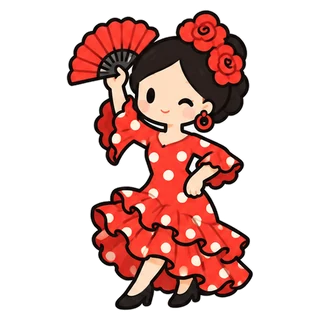
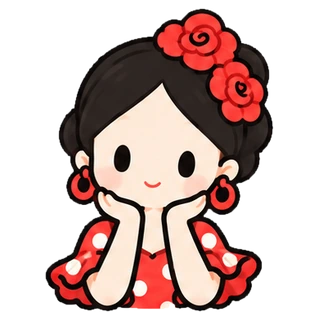
V1.9.13 MARCA: logotipo nuevo, pantalla de apertura, icono nuevo y 8 poses para Menina rubia y Flamenca
Claude-Session: https://claude.ai/code/session_018s9NCTuMNe4yPyob3aS4qC

diff --git a/index.html b/index.html
@@ -108,25 +108,11 @@
   </style>
 </head>
 <body>
+<div id="moppiSplash" role="img" aria-label="Moppi. Pequeños viajes, grandes historias."><span class="splash-blob a"></span><span class="splash-blob b"></span><span class="splash-blob c"></span><span class="splash-blob d"></span><svg class="splash-logo" aria-hidden="true" focusable="false" xmlns="http://www.w3.org/2000/svg" viewBox="-8.0 -145.0 449.0 194.3"><g fill="#3F2C27"><path d="M16.857142857142858 1.1428571428571428Q10.571428571428571 1.1428571428571428 7.857142857142857 -0.7142857142857142Q5.142857142857142 -2.571428571428571 4.571428571428571 -5.571428571428571Q4.0 -8.571428571428571 4.0 -12.0V-85.71428571428571Q4.0 -88.85714285714285 4.571428571428571 -91.78571428571428Q5.142857142857142 -94.71428571428571 7.857142857142857 -96.64285714285714Q10.571428571428571 -98.57142857142857 17.142857142857142 -98.57142857142857Q21.57142857142857 -98.57142857142857 23.64285714285714 -98.0Q25.71428571428571 -97.42857142857142 26.64285714285714 -96.57142857142856Q27.57142857142857 -95.71428571428571 28.57142857142857 -94.57142857142857L57.71428571428571 -57.14285714285714L86.71428571428571 -94.42857142857142Q88.14285714285714 -96.0 89.35714285714286 -96.85714285714286Q90.57142857142857 -97.71428571428571 92.64285714285714 -98.14285714285714Q94.71428571428571 -98.57142857142857 98.57142857142857 -98.57142857142857Q105.0 -98.57142857142857 107.71428571428571 -96.64285714285714Q110.42857142857142 -94.71428571428571 111.0 -91.71428571428571Q111.57142857142857 -88.71428571428571 111.57142857142857 -85.42857142857143V-11.714285714285714Q111.57142857142857 -8.571428571428571 111.0 -5.571428571428571Q110.42857142857142 -2.571428571428571 107.71428571428571 -0.7142857142857142Q105.0 1.1428571428571428 98.42857142857142 1.1428571428571428Q92.0 1.1428571428571428 89.28571428571428 -0.7857142857142856Q86.57142857142857 -2.714285714285714 86.0 -5.785714285714285Q85.42857142857143 -8.857142857142856 85.42857142857143 -12.0V-52.57142857142857L68.71428571428571 -29.857142857142854L67.0 -27.71428571428571Q65.85714285714285 -26.285714285714285 63.71428571428571 -25.142857142857142Q61.57142857142857 -24.0 57.71428571428571 -24.0Q53.857142857142854 -24.0 51.64285714285714 -25.142857142857142Q49.42857142857142 -26.285714285714285 48.28571428571428 -27.642857142857142Q47.14285714285714 -29.0 46.57142857142857 -29.857142857142854L30.0 -52.42857142857142V-11.714285714285714Q30.0 -8.571428571428571 29.428571428571427 -5.571428571428571Q28.857142857142854 -2.571428571428571 26.14285714285714 -0.7142857142857142Q23.428571428571427 1.1428571428571428 16.857142857142858 1.1428571428571428Z"/><path d="M249.42857142857142 -0.42857142857142855Q242.42857142857142 -0.42857142857142855 237.28571428571428 -3.2857142857142856Q236.57142857142856 -3.714285714285714 235.85714285714283 -4.142857142857142V18.857142857142858Q236.1428571428571 22.0 235.49999999999997 24.928571428571427Q234.85714285714283 27.857142857142854 232.1428571428571 29.71428571428571Q229.42857142857142 31.57142857142857 222.99999999999997 31.57142857142857Q216.7142857142857 31.57142857142857 214.0 29.71428571428571Q211.28571428571428 27.857142857142854 210.78571428571428 25.0Q210.28571428571428 22.142857142857142 210.28571428571428 19.0V-58.57142857142857Q210.28571428571428 -61.71428571428571 210.78571428571428 -64.57142857142857Q211.28571428571428 -67.42857142857143 213.92857142857142 -69.35714285714286Q216.57142857142856 -71.28571428571428 222.85714285714283 -71.28571428571428Q227.85714285714283 -71.28571428571428 231.1428571428571 -70.0Q233.85714285714283 -68.85714285714285 235.28571428571428 -66.71428571428571Q236.42857142857142 -67.57142857142857 237.57142857142856 -68.28571428571428Q242.57142857142856 -71.14285714285714 249.42857142857142 -71.14285714285714Q255.7142857142857 -71.14285714285714 261.6428571428571 -68.14285714285714Q267.57142857142856 -65.14285714285714 272.2857142857143 -60.07142857142857Q277.0 -55.0 279.71428571428567 -48.57142857142857Q282.4285714285714 -42.14285714285714 282.4285714285714 -35.285714285714285Q282.4285714285714 -28.142857142857142 279.71428571428567 -21.785714285714285Q277.0 -15.428571428571427 272.35714285714283 -10.642857142857142Q267.71428571428567 -5.857142857142857 261.7857142857142 -3.142857142857143Q255.85714285714283 -0.42857142857142855 249.42857142857142 -0.42857142857142855ZM245.99999999999997 -24.71428571428571Q248.85714285714283 -24.71428571428571 251.2142857142857 -26.14285714285714Q253.57142857142856 -27.57142857142857 254.99999999999997 -29.928571428571427Q256.4285714285714 -32.285714285714285 256.4285714285714 -35.0Q256.4285714285714 -37.857142857142854 255.07142857142856 -40.21428571428571Q253.7142857142857 -42.57142857142857 251.35714285714283 -43.92857142857143Q248.99999999999997 -45.285714285714285 246.1428571428571 -45.285714285714285Q243.28571428571428 -45.285714285714285 240.92857142857142 -43.857142857142854Q238.57142857142856 -42.42857142857142 237.2142857142857 -40.14285714285714Q235.85714285714283 -37.857142857142854 235.85714285714283 -35.0Q235.85714285714283 -32.285714285714285 237.28571428571428 -29.928571428571427Q238.7142857142857 -27.57142857142857 241.0 -26.14285714285714Q243.28571428571428 -24.71428571428571 245.99999999999997 -24.71428571428571Z"/><path d="M323.71428571428567 -0.42857142857142855Q316.71428571428567 -0.42857142857142855 311.57142857142856 -3.2857142857142856Q310.85714285714283 -3.714285714285714 310.1428571428571 -4.142857142857142V18.857142857142858Q310.4285714285714 22.0 309.7857142857142 24.928571428571427Q309.1428571428571 27.857142857142854 306.4285714285714 29.71428571428571Q303.71428571428567 31.57142857142857 297.2857142857143 31.57142857142857Q291.0 31.57142857142857 288.2857142857143 29.71428571428571Q285.57142857142856 27.857142857142854 285.07142857142856 25.0Q284.57142857142856 22.142857142857142 284.57142857142856 19.0V-58.57142857142857Q284.57142857142856 -61.71428571428571 285.07142857142856 -64.57142857142857Q285.57142857142856 -67.42857142857143 288.21428571428567 -69.35714285714286Q290.85714285714283 -71.28571428571428 297.1428571428571 -71.28571428571428Q302.1428571428571 -71.28571428571428 305.4285714285714 -70.0Q308.1428571428571 -68.85714285714285 309.57142857142856 -66.71428571428571Q310.71428571428567 -67.57142857142857 311.85714285714283 -68.28571428571428Q316.85714285714283 -71.14285714285714 323.71428571428567 -71.14285714285714Q330.0 -71.14285714285714 335.92857142857144 -68.14285714285714Q341.85714285714283 -65.14285714285714 346.57142857142856 -60.07142857142857Q351.2857142857143 -55.0 354.0 -48.57142857142857Q356.71428571428567 -42.14285714285714 356.71428571428567 -35.285714285714285Q356.71428571428567 -28.142857142857142 354.0 -21.785714285714285Q351.2857142857143 -15.428571428571427 346.6428571428571 -10.642857142857142Q342.0 -5.857142857142857 336.07142857142856 -3.142857142857143Q330.1428571428571 -0.42857142857142855 323.71428571428567 -0.42857142857142855ZM320.2857142857143 -24.71428571428571Q323.1428571428571 -24.71428571428571 325.5 -26.14285714285714Q327.85714285714283 -27.57142857142857 329.2857142857142 -29.928571428571427Q330.71428571428567 -32.285714285714285 330.71428571428567 -35.0Q330.71428571428567 -37.857142857142854 329.35714285714283 -40.21428571428571Q328.0 -42.57142857142857 325.6428571428571 -43.92857142857143Q323.2857142857143 -45.285714285714285 320.42857142857144 -45.285714285714285Q317.57142857142856 -45.285714285714285 315.21428571428567 -43.857142857142854Q312.85714285714283 -42.42857142857142 311.5 -40.14285714285714Q310.1428571428571 -37.857142857142854 310.1428571428571 -35.0Q310.1428571428571 -32.285714285714285 311.57142857142856 -29.928571428571427Q313.0 -27.57142857142857 315.2857142857143 -26.14285714285714Q317.57142857142856 -24.71428571428571 320.2857142857143 -24.71428571428571Z"/><path d="M372.99999999999994 1.2857142857142856Q366.57142857142856 1.2857142857142856 363.85714285714283 -0.6428571428571428Q361.1428571428571 -2.571428571428571 360.6428571428571 -5.571428571428571Q360.1428571428571 -8.571428571428571 360.1428571428571 -11.714285714285714V-58.285714285714285Q360.1428571428571 -61.42857142857142 360.71428571428567 -64.35714285714285Q361.2857142857143 -67.28571428571428 364.0 -69.21428571428571Q366.71428571428567 -71.14285714285714 373.1428571428571 -71.14285714285714Q379.57142857142856 -71.14285714285714 382.21428571428567 -69.21428571428571Q384.85714285714283 -67.28571428571428 385.4285714285714 -64.28571428571428Q385.99999999999994 -61.285714285714285 385.99999999999994 -58.0V-11.571428571428571Q385.99999999999994 -8.428571428571429 385.4285714285714 -5.428571428571429Q384.85714285714283 -2.4285714285714284 382.21428571428567 -0.5714285714285714Q379.57142857142856 1.2857142857142856 372.99999999999994 1.2857142857142856ZM372.99999999999994 -78.14285714285714Q366.57142857142856 -78.14285714285714 363.85714285714283 -80.07142857142857Q361.1428571428571 -82.0 360.6428571428571 -85.0Q360.1428571428571 -88.0 360.1428571428571 -91.14285714285714Q360.1428571428571 -94.42857142857142 360.71428571428567 -97.35714285714285Q361.2857142857143 -100.28571428571428 364.0 -102.14285714285714Q366.71428571428567 -104.0 373.1428571428571 -104.0Q379.57142857142856 -104.0 382.21428571428567 -102.07142857142857Q384.85714285714283 -100.14285714285714 385.4285714285714 -97.14285714285714Q385.99999999999994 -94.14285714285714 385.99999999999994 -91.0Q385.99999999999994 -87.85714285714285 385.4285714285714 -84.85714285714285Q384.85714285714283 -81.85714285714285 382.21428571428567 -80.0Q379.57142857142856 -78.14285714285714 372.99999999999994 -78.14285714285714Z"/></g><path d="M134.4 -48.4 A35.0 35.0 0 1 1 194.8 -48.4 Q166.0 -15.6 164.6 3.2 Q163.2 -15.6 134.4 -48.4Z" fill="#F26E78" stroke="#3F2C27" stroke-width="6.428571428571429" stroke-linejoin="round"/><circle cx="164.6" cy="-66.1" r="14.7" fill="#FFF8EE"/><g stroke="#F26E78" stroke-width="6.4" stroke-linecap="round" fill="none"><path d="M401.0 -98.0l12 -10"/><path d="M409.0 -78.0l17 -4"/></g></svg><p class="splash-tag">Pequeños viajes,<br>grandes historias <i>♥</i></p><img class="splash-mascot" id="splashMascot" alt="" decoding="async"><div class="splash-bar" aria-hidden="true"><span></span></div><p class="splash-msg">Preparando tu próxima aventura…</p></div>
+<script>if(window.__MOPPI_NO_SPLASH__===true){var s=document.getElementById('moppiSplash');if(s)s.remove()}</script>
 <div class="app" id="app">
   <header class="topbar">
-    <div class="brand"><div class="brand-mark" aria-hidden="true"><svg viewBox="0 0 512 512" focusable="false"><rect width="512" height="512" rx="116" fill="#8DBBE8"/>
-<circle cx="256" cy="282" r="190" fill="#A9CDEF"/>
-<ellipse cx="256" cy="452" rx="118" ry="13" fill="#000" opacity=".12"/>
-<circle cx="256" cy="98" r="27" fill="none" stroke="#B98A3E" stroke-width="15"/>
-<circle cx="256" cy="282" r="170" fill="#F2DDAE" stroke="#4A433D" stroke-width="13"/>
-<circle cx="256" cy="282" r="139" fill="#FFFDF8" stroke="#B98A3E" stroke-width="9"/>
-<g stroke="#4A433D" stroke-width="7" stroke-linejoin="round" stroke-linecap="round">
-<path d="M256 148 L282 224 L230 224 Z" fill="#F28C7A"/>
-<path d="M256 416 L282 340 L230 340 Z" fill="#5E86BA"/>
-<path d="M126 282 L160 265 L160 299 Z" fill="#FFFDF8" stroke-width="6"/>
-<path d="M386 282 L352 265 L352 299 Z" fill="#FFFDF8" stroke-width="6"/>
-</g>
-<g>
-<ellipse cx="220.0" cy="278" rx="12.0" ry="16.8" fill="#4A433D"/><ellipse cx="292.0" cy="278" rx="12.0" ry="16.8" fill="#4A433D"/>
-<ellipse cx="197.2" cy="304.4" rx="18.0" ry="10.799999999999999" fill="#F28C7A" opacity=".6"/><ellipse cx="314.8" cy="304.4" rx="18.0" ry="10.799999999999999" fill="#F28C7A" opacity=".6"/>
-<path d="M244.0 302.0 Q256 315.2 268.0 302.0" fill="none" stroke="#4A433D" stroke-width="5.52" stroke-linecap="round"/>
-<circle cx="224.2" cy="272.0" r="3.9599999999999995" fill="#fff"/><circle cx="296.2" cy="272.0" r="3.9599999999999995" fill="#fff"/></g></svg></div><div class="brand-copy"><strong id="brandTitle">Moppi</strong><span id="headerContext">Preparando el día</span></div></div>
+    <div class="brand"><div class="brand-mark" aria-hidden="true"><svg xmlns="http://www.w3.org/2000/svg" viewBox="0 0 512 512" focusable="false"><rect width="512" height="512" rx="116" fill="#9DB596"/><g transform="translate(256 262) scale(.86) translate(-256 -256)"><g><g fill="none" stroke="#3F2C27" stroke-width="8" stroke-linecap="round" stroke-dasharray="1 22" opacity=".85"><path d="M70 330C46 262 66 186 130 140"/><path d="M446 330C470 262 450 186 392 150"/></g><polygon points="78,366 170,334 170,424 78,456" fill="#A7B89F"/><polygon points="170,334 256,366 256,456 170,424" fill="#CFE0C8"/><polygon points="256,366 342,334 342,424 256,456" fill="#A7B89F"/><polygon points="342,334 434,366 434,456 342,424" fill="#CFE0C8"/><polygon points="78,366 170,334 256,366 342,334 434,366 434,456 342,424 256,456 170,424 78,456" fill="none" stroke="#3F2C27" stroke-width="12" stroke-linejoin="round"/><path d="M170 334V424M256 366V456M342 334V424" stroke="#3F2C27" stroke-width="8" stroke-linecap="round" fill="none"/><path d="M168.1 261.6 A100 100 0 1 1 343.9 261.6 Q262 390 256 424 Q250 390 168.1 261.6Z" fill="#F26E78" stroke="#3F2C27" stroke-width="13" stroke-linejoin="round"/><path d="M218.34571428571428 259.0514285714286Q212.56285714285713 259.0514285714286 210.06571428571428 257.34285714285716Q207.56857142857143 255.6342857142857 207.04285714285714 252.87428571428572Q206.51714285714286 250.11428571428573 206.51714285714286 246.96V179.14285714285717Q206.51714285714286 176.25142857142856 207.04285714285714 173.55714285714285Q207.56857142857143 170.86285714285714 210.06571428571428 169.0885714285714Q212.56285714285713 167.31428571428572 218.60857142857142 167.31428571428572Q222.68285714285713 167.31428571428572 224.5885714285714 167.84Q226.4942857142857 168.3657142857143 227.3485714285714 169.15428571428572Q228.20285714285714 169.94285714285715 229.12285714285713 170.99428571428572L255.9342857142857 205.42857142857144L282.6142857142857 171.1257142857143Q283.92857142857144 169.68 285.0457142857143 168.89142857142858Q286.16285714285715 168.10285714285715 288.06857142857143 167.70857142857142Q289.9742857142857 167.31428571428572 293.5228571428571 167.31428571428572Q299.4371428571428 167.31428571428572 301.9342857142857 169.0885714285714Q304.43142857142857 170.86285714285714 304.95714285714286 173.62285714285713Q305.48285714285714 176.38285714285715 305.48285714285714 179.40571428571428V247.22285714285715Q305.48285714285714 250.11428571428573 304.95714285714286 252.87428571428572Q304.43142857142857 255.6342857142857 301.9342857142857 257.34285714285716Q299.4371428571428 259.0514285714286 293.39142857142855 259.0514285714286Q287.47714285714284 259.0514285714286 284.98 257.27714285714285Q282.48285714285714 255.50285714285715 281.95714285714286 252.67714285714288Q281.43142857142857 249.85142857142858 281.43142857142857 246.96V209.6342857142857L266.0542857142857 230.53142857142856L264.47714285714284 232.50285714285715Q263.42571428571426 233.81714285714287 261.4542857142857 234.86857142857144Q259.48285714285714 235.92000000000002 255.9342857142857 235.92000000000002Q252.38571428571427 235.92000000000002 250.3485714285714 234.86857142857144Q248.31142857142856 233.81714285714287 247.26 232.56857142857143Q246.20857142857142 231.32 245.68285714285713 230.53142857142856L230.43714285714285 209.7657142857143V247.22285714285715Q230.43714285714285 250.11428571428573 229.91142857142856 252.87428571428572Q229.38571428571427 255.6342857142857 226.88857142857142 257.34285714285716Q224.39142857142855 259.0514285714286 218.34571428571428 259.0514285714286Z" fill="#fff" stroke="#3F2C27" stroke-width="10" stroke-linejoin="round" paint-order="stroke"/><g stroke="#FFF6E8" stroke-width="12" stroke-linecap="round"><path d="M388 96l22 -20"/><path d="M410 138l30 -8"/></g></g></g></svg></div><div class="brand-copy"><strong id="brandTitle">Moppi</strong><span id="headerContext">Preparando el día</span></div></div>
     <button class="round-button" id="quickHome" aria-label="Volver al alojamiento"><svg viewBox="0 0 24 24" fill="none" stroke="currentColor" stroke-width="2"><path d="m3 11 9-8 9 8"/><path d="M5 10v10h14V10M9 20v-6h6v6"/></svg></button>
   </header>
 
@@ -372,7 +358,7 @@ const CatalogStore={dbName:'moppi',storeName:'catalogs',
   async all(){return unique([...this.embedded(),...await this.stored()],item=>item.id)},
   async importCatalogs(items){const valid=list(items).filter(item=>this.valid(item));if(!valid.length)throw new ProviderError('INVALID_CATALOG','El archivo no trae horarios oficiales válidos.');let db;try{db=await this.open()}catch{throw new ProviderError('STORAGE','Este navegador no permite guardar horarios oficiales.')}await new Promise((resolve,reject)=>{const tx=db.transaction(this.storeName,'readwrite');for(const item of valid)tx.objectStore(this.storeName).put(JSON.parse(JSON.stringify(item)));tx.oncomplete=resolve;tx.onerror=()=>reject(tx.error);tx.onabort=()=>reject(tx.error||new Error('IDB'))}).catch(()=>{throw new ProviderError('STORAGE','No hubo lugar para guardar los horarios oficiales en este teléfono.')});return{count:valid.length,operators:unique(valid.map(item=>clean(item.operator)||clean(item.label)||'operador'))}}};
 const AppConfig=Object.freeze({
-  version:'V1.9.12_AVISO_VERSION',get timeZone(){return RuntimeZone.value||deviceTimeZone()},locale:'es-UY',tripStorageKey:'moppi.trips.v1',trip:{departureMarginMinutes:20},serviceDate:'2026-09-13',
+  version:'V1.9.13_MARCA',get timeZone(){return RuntimeZone.value||deviceTimeZone()},locale:'es-UY',tripStorageKey:'moppi.trips.v1',trip:{departureMarginMinutes:20},serviceDate:'2026-09-13',
   mapillary:{get clientToken(){return KeyStore.get('mapillary')},searchRadiusMeters:35,maxCorridorMeters:25,maxCurrentMeters:220,maxCurrentNoGeometryMeters:60,limit:60,maxImages:5,minSpacingMeters:10,queryTimeoutMs:9000,imageTimeoutMs:15000},
   tripgo:{get apiKey(){return KeyStore.get('tripgo')},attribution:'Powered by TripGo'},providerDates:{maxFutureDays:28},
   discovery:{originRadiusKm:.65,destinationRadiusKm:.8,maxOriginStops:30,maxDestinationStops:30,horizonMinutes:120,walkingMetersPerSecond:1.15,walkDetourFactor:1.25,boardingBufferSeconds:35,walkMatrixBatchSize:25,requestTimeoutMs:14000},
@@ -2545,6 +2531,27 @@ MoppiShare.start(app);
 .update-banner .mini-action{background:#fff;color:var(--forest,#18312d);white-space:nowrap}
 .update-banner .update-close{flex:0 0 auto;width:32px;height:32px;border-radius:50%;background:rgba(255,255,255,.16);color:#fff;font-size:20px;line-height:1}
 </style>
+<style id="brandV1913">
+#moppiSplash{position:fixed;inset:0;z-index:200;display:flex;flex-direction:column;align-items:center;justify-content:center;padding:max(24px,env(safe-area-inset-top)) 24px max(24px,env(safe-area-inset-bottom));background:linear-gradient(180deg,#FDF9F6 0,#FBF7F4 100%);overflow:hidden;opacity:1;transition:opacity .35s ease;text-align:center}
+#moppiSplash.out{opacity:0;pointer-events:none}
+#moppiSplash>*{position:relative}
+.splash-blob{position:absolute!important;border-radius:50%;opacity:.5;pointer-events:none}
+.splash-blob.a{width:62vmin;height:62vmin;left:-24vmin;top:8vmin;background:#A7B89F}
+.splash-blob.b{width:44vmin;height:44vmin;right:-14vmin;top:-8vmin;background:#F8D2A9}
+.splash-blob.c{width:70vmin;height:70vmin;right:-28vmin;bottom:10vmin;background:#F6C1BC}
+.splash-blob.d{width:40vmin;height:40vmin;left:-14vmin;bottom:-8vmin;background:#A7B89F;opacity:.38}
+.splash-logo{width:min(74vw,320px);height:auto;display:block}
+.splash-tag{margin:12px 0 0;font-family:var(--serif,Georgia,serif);font-size:clamp(17px,4.9vw,21px);line-height:1.35;color:#4a3a34}
+.splash-tag i{font-style:normal;color:#F26E78}
+.splash-mascot{width:min(46vw,200px);aspect-ratio:1;object-fit:contain;margin-top:18px;opacity:0;transform:translateY(8px);transition:opacity .4s ease,transform .4s ease}
+.splash-mascot.show{opacity:1;transform:none}
+.splash-bar{width:min(56vw,220px);height:8px;border-radius:99px;background:rgba(63,44,39,.1);overflow:hidden;margin-top:20px}
+.splash-bar span{display:block;height:100%;border-radius:99px;background:#F26E78;transform-origin:left center;transform:scaleX(.08);animation:splashFill 1.5s cubic-bezier(.3,.7,.2,1) forwards}
+@keyframes splashFill{to{transform:scaleX(1)}}
+.splash-msg{margin:10px 0 0;font-size:13px;color:#66736f}
+@media (max-height:560px){.splash-mascot{display:none}}
+@media (prefers-reduced-motion:reduce){.splash-bar span{animation:none;transform:scaleX(1)}#moppiSplash,.splash-mascot{transition:none}}
+</style>
 <style id="skinSalvia">
 /* MOPPI · SKIN «SALVIA LUMINOSA» — capa visual (solo CSS). No cambia datos, lógica ni funciones.
    Todo el color sale de las variables de abajo: otro tema = otro bloque de variables. */
@@ -2721,9 +2728,9 @@ h2{font-weight:700;letter-spacing:-.005em}
    - Si una imagen no carga (sin conexión y sin copia guardada), la cabecera sigue completa sin ella. */
 (()=>{'use strict';
 const KEY='moppi.mascot.v1',ORDER=['today','route','explore','trip','settings'];
-const DATA={"estados":{"ahora":["saludar","caminar","feliz"],"ruta":["mapa","caminar","pasaporte","feliz"],"cerca":["foto","mapa","compras","caminar","feliz"],"viaje":["valija","pasaporte","caminar","feliz"],"ajustes":["cafe","descanso","pensar","feliz"],"cargando":["cafe","pensar","descanso","feliz"],"listo":["saludar","feliz"],"error":["pensar","neutro"]},"personajes":{"menina_contemporanea":{"nombre":"Menina contemporánea","poses":{"01":["caminar","valija"],"02":["feliz","descanso"],"03":["pasaporte"],"04":["descanso","valija"],"05":["saludar"],"06":["mapa"]}},"francesa_croissant":{"nombre":"Francesa del croissant","poses":{"01":["comer"],"02":["cafe"],"03":["neutro","feliz"],"04":["caminar"],"05":["descanso","pensar"],"06":["saludar","feliz"]}},"chica_vespa":{"nombre":"Chica de la Vespa","poses":{"01":["manejar","caminar"],"02":["feliz"],"03":["manejar"],"04":["neutro"],"05":["saludar"],"06":["descanso"]}},"fotografa":{"nombre":"Fotógrafa","poses":{"01":["foto"],"02":["neutro","feliz"],"03":["saludar","foto"],"04":["foto"],"05":["caminar"],"06":["foto"]}},"gioconda":{"nombre":"Gioconda","poses":{"01":["neutro","pensar"],"02":["pasaporte"],"03":["cafe"],"04":["caminar","valija"],"05":["saludar"],"06":["mapa"]}},"joven_perla":{"nombre":"Joven de la perla","poses":{"01":["neutro"],"02":["mapa"],"03":["pasaporte"],"04":["descanso","pensar"],"05":["caminar"],"06":["mapa"]}},"velazquez":{"nombre":"Velázquez","poses":{"01":["feliz"],"02":["feliz","saludar"],"03":["foto"],"04":["caminar"],"05":["pensar"],"06":["feliz"]}},"leonardo":{"nombre":"Leonardo da Vinci","poses":{"01":["neutro"],"02":["foto","pensar"],"03":["feliz","pensar"],"04":["cafe"],"05":["mapa"],"06":["caminar"]}},"gatita_viajera":{"nombre":"Gatita viajera","poses":{"01":["caminar","valija"],"02":["feliz"],"03":["foto"],"04":["valija","descanso"],"05":["compras"],"06":["saludar"]}},"menina_rubia":{"nombre":"Menina rubia","poses":{"01":["feliz"]}},"flamenca":{"nombre":"Flamenca","poses":{"01":["saludar","feliz"]}}},"pantallas":{"today":{"estado":"ahora","evitar":[],"size":112,"right":-2,"bottom":-2,"flip":1},"route":{"estado":"ruta","evitar":["mapa"],"size":104,"right":4,"bottom":-8,"flip":-1},"explore":{"estado":"cerca","evitar":["foto"],"size":108,"right":-2,"bottom":-4,"flip":1},"trip":{"estado":"viaje","evitar":["valija"],"size":100,"right":2,"bottom":3,"flip":-1},"settings":{"estado":"ajustes","evitar":["pasaporte"],"size":100,"right":4,"bottom":-4,"flip":1}}};
+const DATA={"estados":{"ahora":["saludar","caminar","feliz"],"ruta":["mapa","caminar","pasaporte","feliz"],"cerca":["foto","mapa","compras","caminar","feliz"],"viaje":["valija","pasaporte","caminar","feliz"],"ajustes":["cafe","descanso","pensar","feliz"],"cargando":["cafe","pensar","descanso","feliz"],"listo":["saludar","feliz"],"error":["pensar","neutro"]},"personajes":{"menina_contemporanea":{"nombre":"Menina contemporánea","poses":{"01":["caminar","valija"],"02":["feliz","descanso"],"03":["pasaporte"],"04":["descanso","valija"],"05":["saludar"],"06":["mapa"]}},"francesa_croissant":{"nombre":"Francesa del croissant","poses":{"01":["comer"],"02":["cafe"],"03":["neutro","feliz"],"04":["caminar"],"05":["descanso","pensar"],"06":["saludar","feliz"]}},"chica_vespa":{"nombre":"Chica de la Vespa","poses":{"01":["manejar","caminar"],"02":["feliz"],"03":["manejar"],"04":["neutro"],"05":["saludar"],"06":["descanso"]}},"fotografa":{"nombre":"Fotógrafa","poses":{"01":["foto"],"02":["neutro","feliz"],"03":["saludar","foto"],"04":["foto"],"05":["caminar"],"06":["foto"]}},"gioconda":{"nombre":"Gioconda","poses":{"01":["neutro","pensar"],"02":["pasaporte"],"03":["cafe"],"04":["caminar","valija"],"05":["saludar"],"06":["mapa"]}},"joven_perla":{"nombre":"Joven de la perla","poses":{"01":["neutro"],"02":["mapa"],"03":["pasaporte"],"04":["descanso","pensar"],"05":["caminar"],"06":["mapa"]}},"velazquez":{"nombre":"Velázquez","poses":{"01":["feliz"],"02":["feliz","saludar"],"03":["foto"],"04":["caminar"],"05":["pensar"],"06":["feliz"]}},"leonardo":{"nombre":"Leonardo da Vinci","poses":{"01":["neutro"],"02":["foto","pensar"],"03":["feliz","pensar"],"04":["cafe"],"05":["mapa"],"06":["caminar"]}},"gatita_viajera":{"nombre":"Gatita viajera","poses":{"01":["caminar","valija"],"02":["feliz"],"03":["foto"],"04":["valija","descanso"],"05":["compras"],"06":["saludar"]}},"menina_rubia":{"nombre":"Menina rubia","poses":{"01":["neutro"],"02":["descanso","feliz"],"03":["pensar","descanso"],"04":["foto"],"05":["caminar","valija"],"06":["saludar","feliz"],"07":["neutro"],"08":["trasera"]}},"flamenca":{"nombre":"Flamenca","poses":{"01":["pensar","neutro"],"02":["feliz","descanso"],"03":["cafe","descanso"],"04":["mapa"],"05":["bailar","feliz"],"06":["caminar","valija"],"07":["saludar","feliz"],"08":["trasera"]}}},"pantallas":{"today":{"estado":"ahora","evitar":[],"size":112,"right":-2,"bottom":-2,"flip":1},"route":{"estado":"ruta","evitar":["mapa"],"size":104,"right":4,"bottom":-8,"flip":-1},"explore":{"estado":"cerca","evitar":["foto"],"size":108,"right":-2,"bottom":-4,"flip":1},"trip":{"estado":"viaje","evitar":["valija"],"size":100,"right":2,"bottom":3,"flip":-1},"settings":{"estado":"ajustes","evitar":["pasaporte"],"size":100,"right":4,"bottom":-4,"flip":1}}};
 const esc=value=>String(value).replace(/[&<>"']/g,char=>({'&':'&amp;','<':'&lt;','>':'&gt;','"':'&quot;',"'":'&#39;'}[char]));
-const pick=(character,wanted,used)=>{for(const tag of wanted)for(const[name,tags]of Object.entries(character.poses))if(tags.includes(tag)&&!used.has(name))return name;return null};
+const pick=(character,wanted,used,avoid=[])=>{for(const tag of wanted)for(const[name,tags]of Object.entries(character.poses))if(tags.includes(tag)&&!used.has(name)&&!tags.some(t=>avoid.includes(t)))return name;return null};
 const Mascot={
   data:DATA,order:ORDER,
   get(){try{const id=localStorage.getItem(KEY)||'';return DATA.personajes[id]?id:''}catch{return''}},
@@ -2731,7 +2738,7 @@ const Mascot={
   /* una pose por pantalla, sin repetir entre pantallas mientras el personaje tenga otra */
   poses(id){const character=DATA.personajes[id];if(!character)return{};const used=new Set(),out={};
     for(const view of ORDER){const slot=DATA.pantallas[view],wanted=(DATA.estados[slot.estado]||[]).filter(tag=>!(slot.evitar||[]).includes(tag));
-      let name=pick(character,wanted,used);if(!name)name=pick(character,wanted,new Set());
+      const avoid=slot.evitar||[];let name=pick(character,wanted,used,avoid);if(!name)name=pick(character,wanted,new Set(),avoid);
       if(name){used.add(name);out[view]=name}}
     return out},
   src(id,name){return`mascots/${id}/${id}_${name}.webp`},
@@ -2835,6 +2842,25 @@ window.addEventListener('online',()=>maybe(true));
 window.addEventListener('pageshow',event=>{if(event.persisted)maybe(false)});
 window.__MOPPI_UPDATE__=Object.freeze({check,state:()=>({last:state.last,busy:state.busy,found:state.found,dismissed:state.dismissed})});
 init();
+})();
+</script>
+<script id="moppiSplashModule">
+/* Moppi · pantalla de apertura (V1.9.13). Se ve cada vez que se abre la app y desaparece sola a los ~1,5 s; un toque la cierra.
+   No toca datos, rutas ni funciones. Muestra el logotipo, un mensaje y una mascota (la elegida en Ajustes, o la Menina contemporánea). */
+(()=>{'use strict';
+const box=document.getElementById('moppiSplash');if(!box)return;
+const MIN=1500;
+let done=false;
+function close(){if(done)return;done=true;
+  box.classList.add('out');box.setAttribute('aria-hidden','true');setTimeout(()=>box.remove(),420)}
+const Mascot=window.MoppiMascot,wanted=Mascot&&Mascot.get(),id=wanted||'menina_contemporanea',character=Mascot&&Mascot.data.personajes[id];
+let pose='';
+if(character)for(const tag of['caminar','saludar','feliz']){pose=Object.keys(character.poses).find(name=>character.poses[name].includes(tag))||'';if(pose)break}
+const img=document.getElementById('splashMascot');
+if(img&&pose){img.addEventListener('load',()=>img.classList.add('show'));img.addEventListener('error',()=>img.remove());img.src=Mascot.src(id,pose)}
+else if(img)img.remove();
+box.addEventListener('click',close);
+setTimeout(close,Math.max(250,MIN-Math.round(performance.now())));
 })();
 </script>
 </body>

diff --git a/sw.js b/sw.js
@@ -3,7 +3,7 @@
    - Íconos y manifiesto: desde la copia guardada.
    - Mascotas (imágenes): se guardan la primera vez que se usan y quedan disponibles sin conexión.
    - Los servicios externos (Google, TripGo, Mapillary) nunca pasan por aquí: siempre van a la red. */
-const VERSION = 'moppi-1.9.12';
+const VERSION = 'moppi-1.9.13';
 const CORE = ['./', './index.html', './manifest.webmanifest', './icons/icon-192.png', './icons/icon-512.png', './icons/maskable-512.png', './icons/apple-touch-icon.png'];
 
 self.addEventListener('install', event => {
